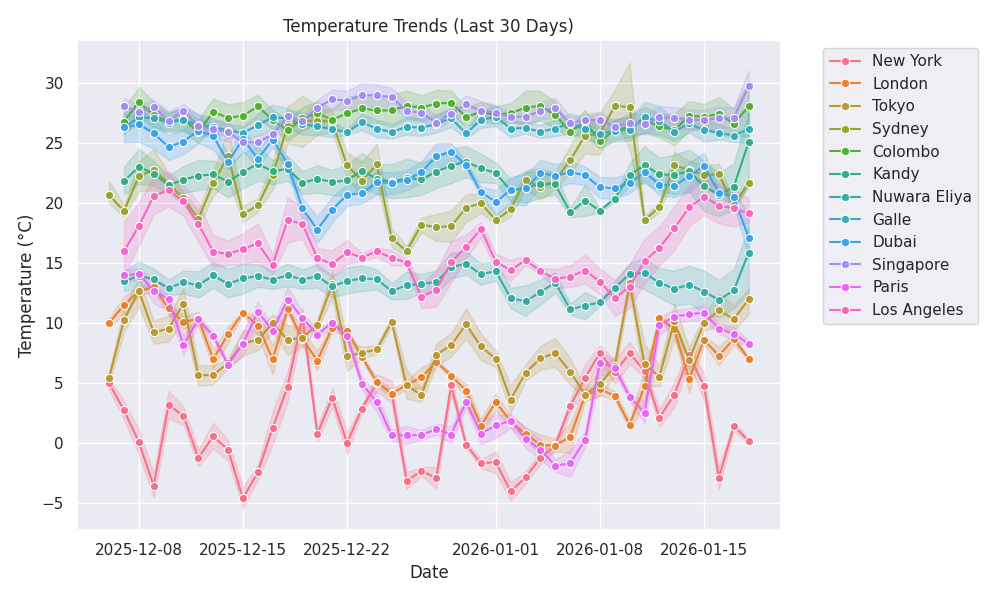
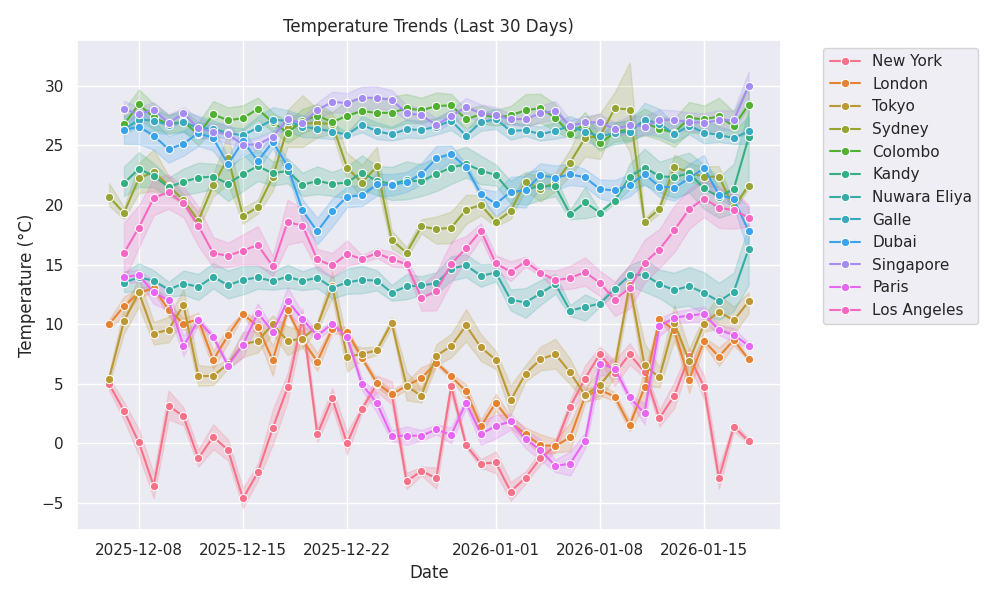
🌦 Weather update: 2026-01-18 08:17

diff --git a/public/index.html b/public/index.html
@@ -11,7 +11,7 @@
     <div class="max-w-6xl mx-auto">
         <header class="mb-8 text-center">
             <h1 class="text-4xl font-bold mb-2">🌍 Global Weather Dashboard</h1>
-            <p class="text-slate-400">Last Updated: 2026-01-18 07:14:35</p>
+            <p class="text-slate-400">Last Updated: 2026-01-18 08:17:44</p>
         </header>
         
         <!-- AI Summary -->
@@ -29,12 +29,12 @@
                     <span class="text-3xl">☀</span>
                 </div>
                 <div class="mt-4">
-                    <p class="text-4xl font-bold">8.46°C</p>
+                    <p class="text-4xl font-bold">7.77°C</p>
                     <p class="text-slate-400 capitalize">clear sky</p>
                 </div>
                 <div class="mt-4 text-sm text-slate-500">
-                    <p>💧 Humidity: 89%</p>
-                    <p>💨 Wind: 3.6 m/s</p>
+                    <p>💧 Humidity: 90%</p>
+                    <p>💨 Wind: 1.03 m/s</p>
                 </div>
             </div>
             
@@ -44,12 +44,12 @@
                     <span class="text-3xl">🌫</span>
                 </div>
                 <div class="mt-4">
-                    <p class="text-4xl font-bold">7.0°C</p>
+                    <p class="text-4xl font-bold">7.15°C</p>
                     <p class="text-slate-400 capitalize">mist</p>
                 </div>
                 <div class="mt-4 text-sm text-slate-500">
                     <p>💧 Humidity: 94%</p>
-                    <p>💨 Wind: 4.12 m/s</p>
+                    <p>💨 Wind: 3.6 m/s</p>
                 </div>
             </div>
             
@@ -59,12 +59,12 @@
                     <span class="text-3xl">☁</span>
                 </div>
                 <div class="mt-4">
-                    <p class="text-4xl font-bold">21.66°C</p>
+                    <p class="text-4xl font-bold">21.18°C</p>
                     <p class="text-slate-400 capitalize">broken clouds</p>
                 </div>
                 <div class="mt-4 text-sm text-slate-500">
-                    <p>💧 Humidity: 73%</p>
-                    <p>💨 Wind: 4.47 m/s</p>
+                    <p>💧 Humidity: 74%</p>
+                    <p>💨 Wind: 2.24 m/s</p>
                 </div>
             </div>
             
@@ -74,27 +74,27 @@
                     <span class="text-3xl">☁</span>
                 </div>
                 <div class="mt-4">
-                    <p class="text-4xl font-bold">31.04°C</p>
+                    <p class="text-4xl font-bold">31.22°C</p>
                     <p class="text-slate-400 capitalize">broken clouds</p>
                 </div>
                 <div class="mt-4 text-sm text-slate-500">
-                    <p>💧 Humidity: 50%</p>
-                    <p>💨 Wind: 5.66 m/s</p>
+                    <p>💧 Humidity: 48%</p>
+                    <p>💨 Wind: 6.17 m/s</p>
                 </div>
             </div>
             
             <div class="bg-slate-800 p-6 rounded-xl shadow-lg border-t-4 border-blue-500 hover:scale-105 transition-transform">
                 <div class="flex justify-between items-start">
                     <h3 class="text-xl font-bold">Dubai</h3>
-                    <span class="text-3xl">☀</span>
+                    <span class="text-3xl">☁</span>
                 </div>
                 <div class="mt-4">
-                    <p class="text-4xl font-bold">20.96°C</p>
-                    <p class="text-slate-400 capitalize">clear sky</p>
+                    <p class="text-4xl font-bold">21.96°C</p>
+                    <p class="text-slate-400 capitalize">few clouds</p>
                 </div>
                 <div class="mt-4 text-sm text-slate-500">
-                    <p>💧 Humidity: 56%</p>
-                    <p>💨 Wind: 2.57 m/s</p>
+                    <p>💧 Humidity: 53%</p>
+                    <p>💨 Wind: 3.09 m/s</p>
                 </div>
             </div>
             
@@ -104,12 +104,12 @@
                     <span class="text-3xl">☁</span>
                 </div>
                 <div class="mt-4">
-                    <p class="text-4xl font-bold">26.06°C</p>
-                    <p class="text-slate-400 capitalize">overcast clouds</p>
+                    <p class="text-4xl font-bold">26.09°C</p>
+                    <p class="text-slate-400 capitalize">broken clouds</p>
                 </div>
                 <div class="mt-4 text-sm text-slate-500">
                     <p>💧 Humidity: 72%</p>
-                    <p>💨 Wind: 2.91 m/s</p>
+                    <p>💨 Wind: 3.09 m/s</p>
                 </div>
             </div>
             
@@ -119,27 +119,27 @@
                     <span class="text-3xl">☁</span>
                 </div>
                 <div class="mt-4">
-                    <p class="text-4xl font-bold">18.95°C</p>
-                    <p class="text-slate-400 capitalize">overcast clouds</p>
+                    <p class="text-4xl font-bold">19.03°C</p>
+                    <p class="text-slate-400 capitalize">broken clouds</p>
                 </div>
                 <div class="mt-4 text-sm text-slate-500">
-                    <p>💧 Humidity: 52%</p>
-                    <p>💨 Wind: 1.96 m/s</p>
+                    <p>💧 Humidity: 53%</p>
+                    <p>💨 Wind: 2.37 m/s</p>
                 </div>
             </div>
             
             <div class="bg-slate-800 p-6 rounded-xl shadow-lg border-t-4 border-blue-500 hover:scale-105 transition-transform">
                 <div class="flex justify-between items-start">
                     <h3 class="text-xl font-bold">Kandy</h3>
-                    <span class="text-3xl">☀</span>
+                    <span class="text-3xl">☁</span>
                 </div>
                 <div class="mt-4">
-                    <p class="text-4xl font-bold">28.73°C</p>
-                    <p class="text-slate-400 capitalize">clear sky</p>
+                    <p class="text-4xl font-bold">29.14°C</p>
+                    <p class="text-slate-400 capitalize">scattered clouds</p>
                 </div>
                 <div class="mt-4 text-sm text-slate-500">
-                    <p>💧 Humidity: 44%</p>
-                    <p>💨 Wind: 2.11 m/s</p>
+                    <p>💧 Humidity: 43%</p>
+                    <p>💨 Wind: 2.36 m/s</p>
                 </div>
             </div>
             
@@ -149,12 +149,12 @@
                     <span class="text-3xl">☁</span>
                 </div>
                 <div class="mt-4">
-                    <p class="text-4xl font-bold">31.13°C</p>
-                    <p class="text-slate-400 capitalize">few clouds</p>
+                    <p class="text-4xl font-bold">30.58°C</p>
+                    <p class="text-slate-400 capitalize">scattered clouds</p>
                 </div>
                 <div class="mt-4 text-sm text-slate-500">
-                    <p>💧 Humidity: 54%</p>
-                    <p>💨 Wind: 5.1 m/s</p>
+                    <p>💧 Humidity: 60%</p>
+                    <p>💨 Wind: 5.87 m/s</p>
                 </div>
             </div>
             
@@ -168,8 +168,8 @@
                     <p class="text-slate-400 capitalize">mist</p>
                 </div>
                 <div class="mt-4 text-sm text-slate-500">
-                    <p>💧 Humidity: 88%</p>
-                    <p>💨 Wind: 2.06 m/s</p>
+                    <p>💧 Humidity: 89%</p>
+                    <p>💨 Wind: 0.89 m/s</p>
                 </div>
             </div>
             
@@ -179,12 +179,12 @@
                     <span class="text-3xl">☁</span>
                 </div>
                 <div class="mt-4">
-                    <p class="text-4xl font-bold">12.78°C</p>
+                    <p class="text-4xl font-bold">11.5°C</p>
                     <p class="text-slate-400 capitalize">few clouds</p>
                 </div>
                 <div class="mt-4 text-sm text-slate-500">
-                    <p>💧 Humidity: 38%</p>
-                    <p>💨 Wind: 2.57 m/s</p>
+                    <p>💧 Humidity: 41%</p>
+                    <p>💨 Wind: 1.54 m/s</p>
                 </div>
             </div>
             
@@ -194,7 +194,7 @@
                     <span class="text-3xl">☀</span>
                 </div>
                 <div class="mt-4">
-                    <p class="text-4xl font-bold">18.55°C</p>
+                    <p class="text-4xl font-bold">17.72°C</p>
                     <p class="text-slate-400 capitalize">clear sky</p>
                 </div>
                 <div class="mt-4 text-sm text-slate-500">

diff --git a/README.md b/README.md
@@ -8,8 +8,8 @@
 
 ---
 
-## ⚡ Live Status (Updated: 2026-01-18 07:14 UTC)
-![Paris](https://img.shields.io/badge/Paris-8.46°C-blue) ![London](https://img.shields.io/badge/London-7.0°C-blue) ![Sydney](https://img.shields.io/badge/Sydney-21.66°C-green) ![Singapore](https://img.shields.io/badge/Singapore-31.04°C-red) ![Dubai](https://img.shields.io/badge/Dubai-20.96°C-green) ![Galle](https://img.shields.io/badge/Galle-26.06°C-orange) ![Nuwara Eliya](https://img.shields.io/badge/Nuwara%20Eliya-18.95°C-green) ![Kandy](https://img.shields.io/badge/Kandy-28.73°C-orange) ![Colombo](https://img.shields.io/badge/Colombo-31.13°C-red) ![New York](https://img.shields.io/badge/New%20York-0.29°C-blue) ![Tokyo](https://img.shields.io/badge/Tokyo-12.78°C-blue) ![Los Angeles](https://img.shields.io/badge/Los%20Angeles-18.55°C-green) 
+## ⚡ Live Status (Updated: 2026-01-18 08:17 UTC)
+![Paris](https://img.shields.io/badge/Paris-7.77°C-blue) ![London](https://img.shields.io/badge/London-7.15°C-blue) ![Sydney](https://img.shields.io/badge/Sydney-21.18°C-green) ![Singapore](https://img.shields.io/badge/Singapore-31.22°C-red) ![Dubai](https://img.shields.io/badge/Dubai-21.96°C-green) ![Galle](https://img.shields.io/badge/Galle-26.09°C-orange) ![Nuwara Eliya](https://img.shields.io/badge/Nuwara%20Eliya-19.03°C-green) ![Kandy](https://img.shields.io/badge/Kandy-29.14°C-orange) ![Colombo](https://img.shields.io/badge/Colombo-30.58°C-red) ![New York](https://img.shields.io/badge/New%20York-0.29°C-blue) ![Tokyo](https://img.shields.io/badge/Tokyo-11.5°C-blue) ![Los Angeles](https://img.shields.io/badge/Los%20Angeles-17.72°C-green) 
 
 <div align="center">
   <h3>🏆 Weather Records (Live)</h3>
@@ -19,7 +19,7 @@
         <td align="center">❄ <b>Coldest City</b></td>
     </tr>
     <tr>
-        <td align="center"><b>Colombo</b><br>31.13°C</td>
+        <td align="center"><b>Singapore</b><br>31.22°C</td>
         <td align="center"><b>New York</b><br>0.29°C</td>
     </tr>
   </table>
@@ -28,18 +28,18 @@
 ## 📊 Global Overview
 | 🌍 City | 🌡 Temp | 🌤 Condition | 💧 Humidity | 🌬 Wind |
 |---|---|---|---|---|
-| **Paris** | 8.46°C | clear sky | 🟦🟦🟦🟦⬜ 89% | 3.6 m/s |
-| **London** | 7.0°C | mist | 🟦🟦🟦🟦⬜ 94% | 4.12 m/s |
-| **Sydney** | 21.66°C | broken clouds | 🟦🟦🟦⬜⬜ 73% | 4.47 m/s |
-| **Singapore** | 31.04°C | broken clouds | 🟦🟦⬜⬜⬜ 50% | 5.66 m/s |
-| **Dubai** | 20.96°C | clear sky | 🟦🟦⬜⬜⬜ 56% | 2.57 m/s |
-| **Galle** | 26.06°C | overcast clouds | 🟦🟦🟦⬜⬜ 72% | 2.91 m/s |
-| **Nuwara Eliya** | 18.95°C | overcast clouds | 🟦🟦⬜⬜⬜ 52% | 1.96 m/s |
-| **Kandy** | 28.73°C | clear sky | 🟦🟦⬜⬜⬜ 44% | 2.11 m/s |
-| **Colombo** | 31.13°C | few clouds | 🟦🟦⬜⬜⬜ 54% | 5.1 m/s |
-| **New York** | 0.29°C | mist | 🟦🟦🟦🟦⬜ 88% | 2.06 m/s |
-| **Tokyo** | 12.78°C | few clouds | 🟦⬜⬜⬜⬜ 38% | 2.57 m/s |
-| **Los Angeles** | 18.55°C | clear sky | 🟦⬜⬜⬜⬜ 34% | 2.06 m/s |
+| **Paris** | 7.77°C | clear sky | 🟦🟦🟦🟦⬜ 90% | 1.03 m/s |
+| **London** | 7.15°C | mist | 🟦🟦🟦🟦⬜ 94% | 3.6 m/s |
+| **Sydney** | 21.18°C | broken clouds | 🟦🟦🟦⬜⬜ 74% | 2.24 m/s |
+| **Singapore** | 31.22°C | broken clouds | 🟦🟦⬜⬜⬜ 48% | 6.17 m/s |
+| **Dubai** | 21.96°C | few clouds | 🟦🟦⬜⬜⬜ 53% | 3.09 m/s |
+| **Galle** | 26.09°C | broken clouds | 🟦🟦🟦⬜⬜ 72% | 3.09 m/s |
+| **Nuwara Eliya** | 19.03°C | broken clouds | 🟦🟦⬜⬜⬜ 53% | 2.37 m/s |
+| **Kandy** | 29.14°C | scattered clouds | 🟦🟦⬜⬜⬜ 43% | 2.36 m/s |
+| **Colombo** | 30.58°C | scattered clouds | 🟦🟦🟦⬜⬜ 60% | 5.87 m/s |
+| **New York** | 0.29°C | mist | 🟦🟦🟦🟦⬜ 89% | 0.89 m/s |
+| **Tokyo** | 11.5°C | few clouds | 🟦🟦⬜⬜⬜ 41% | 1.54 m/s |
+| **Los Angeles** | 17.72°C | clear sky | 🟦⬜⬜⬜⬜ 34% | 2.06 m/s |
 
 
 ## 📈 Temperature Trends
